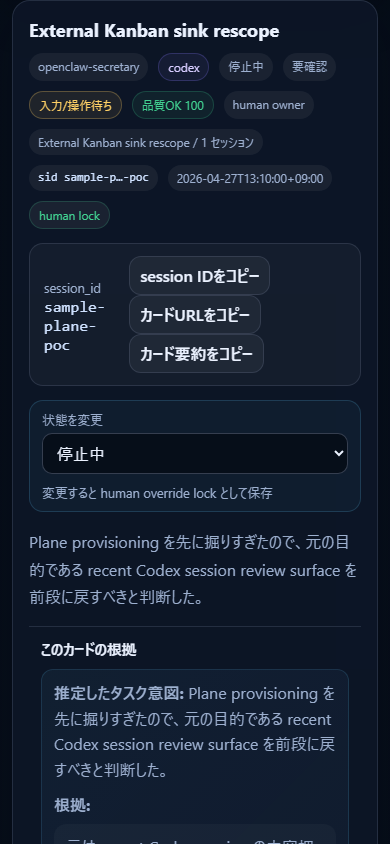
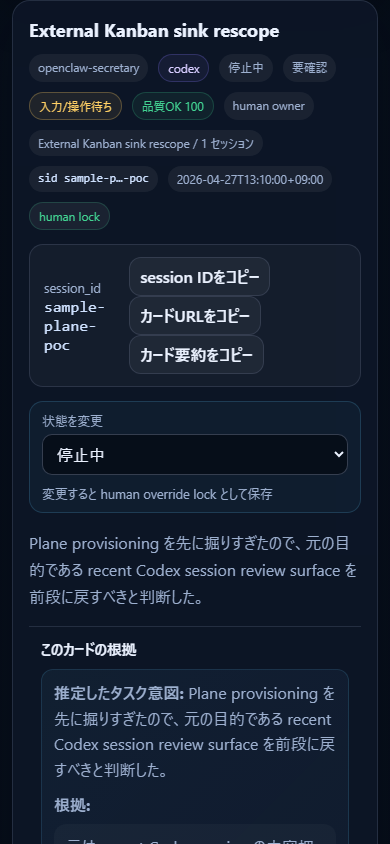
Cover dropped archive fixture

diff --git a/codex_session_review/assets/app.js b/codex_session_review/assets/app.js
@@ -1550,6 +1550,9 @@ function renderCandidateStrip() {
     card.className = `candidate-card${index === state.selectedCandidateIndex ? " selected" : ""}`;
     card.tabIndex = 0;
     card.dataset.candidateIndex = String(index);
+    if (representative?.session_id) {
+      card.dataset.representativeSessionId = representative.session_id;
+    }
     card.innerHTML = `
       <div class="card-tags">
         <span class="tag">${escapeHtml(displayTaskSize(task.task_size_ja))}</span>

diff --git a/codex_session_review/diagnose_fixture_coverage.py b/codex_session_review/diagnose_fixture_coverage.py
@@ -36,7 +36,10 @@ REQUIRED_CAPABILITIES: dict[str, str] = {
     "lightweight_prioritization": "token-free activity/size prioritization signals can be generated",
 }
 
-OPTIONAL_STATUS_LABELS = ["Inbox", "Need Review", "Pending", "In Progress", "Blocked", "Done", "Dropped"]
+# Keep this aligned with the visible board columns. Inbox used to be part of
+# the early prototype, but the public review surface intentionally removed it
+# so candidates stay in the staging backlog until explicitly promoted.
+OPTIONAL_STATUS_LABELS = list(STATUS_ORDER)
 
 
 def load_raw(path: Path) -> Any:

diff --git a/CHANGELOG.md b/CHANGELOG.md
@@ -4,6 +4,17 @@ All notable public-demo changes are tracked here.
 
 This project is still pre-1.0. Entries focus on public distribution, fixture safety, and the session-to-task review workflow.
 
+## 0.1.35 - 2026-04-29
+
+### Added
+
+- Added a public fixture case for an intentionally dropped hosting path so the collapsed `Dropped` archive column is covered by demo data.
+
+### Changed
+
+- Fixture coverage diagnostics now align optional status coverage with the current visible board columns after removing the early Inbox prototype.
+- Browser smoke candidate-promotion assertions now compare against the immediately visible candidate count, making the check robust when archive-only candidates are hidden by default.
+
 ## 0.1.34 - 2026-04-29
 
 ### Added

diff --git a/PRODUCT_TODO.md b/PRODUCT_TODO.md
@@ -668,6 +668,7 @@ Risk to avoid:
 
 Status:
 - Implemented as coverage-first maintenance in v0.1.21. The public fixture covers topic conflict, same-repo parallel tasks, provider import, cross-session predecessor suppression, needs-input/blocker, and mobile review control examples. `diagnose_fixture_coverage.py` and `npm run fixture:coverage` now make that coverage machine-visible before adding more samples.
+- Follow-up added an intentionally dropped hosting-path fixture so the collapsed `Dropped` archive behavior is covered, and aligned fixture-status diagnostics with the current board columns after Inbox removal.
 
 Goal:
 - Add new fixtures only when a real misclassification pattern appears.
